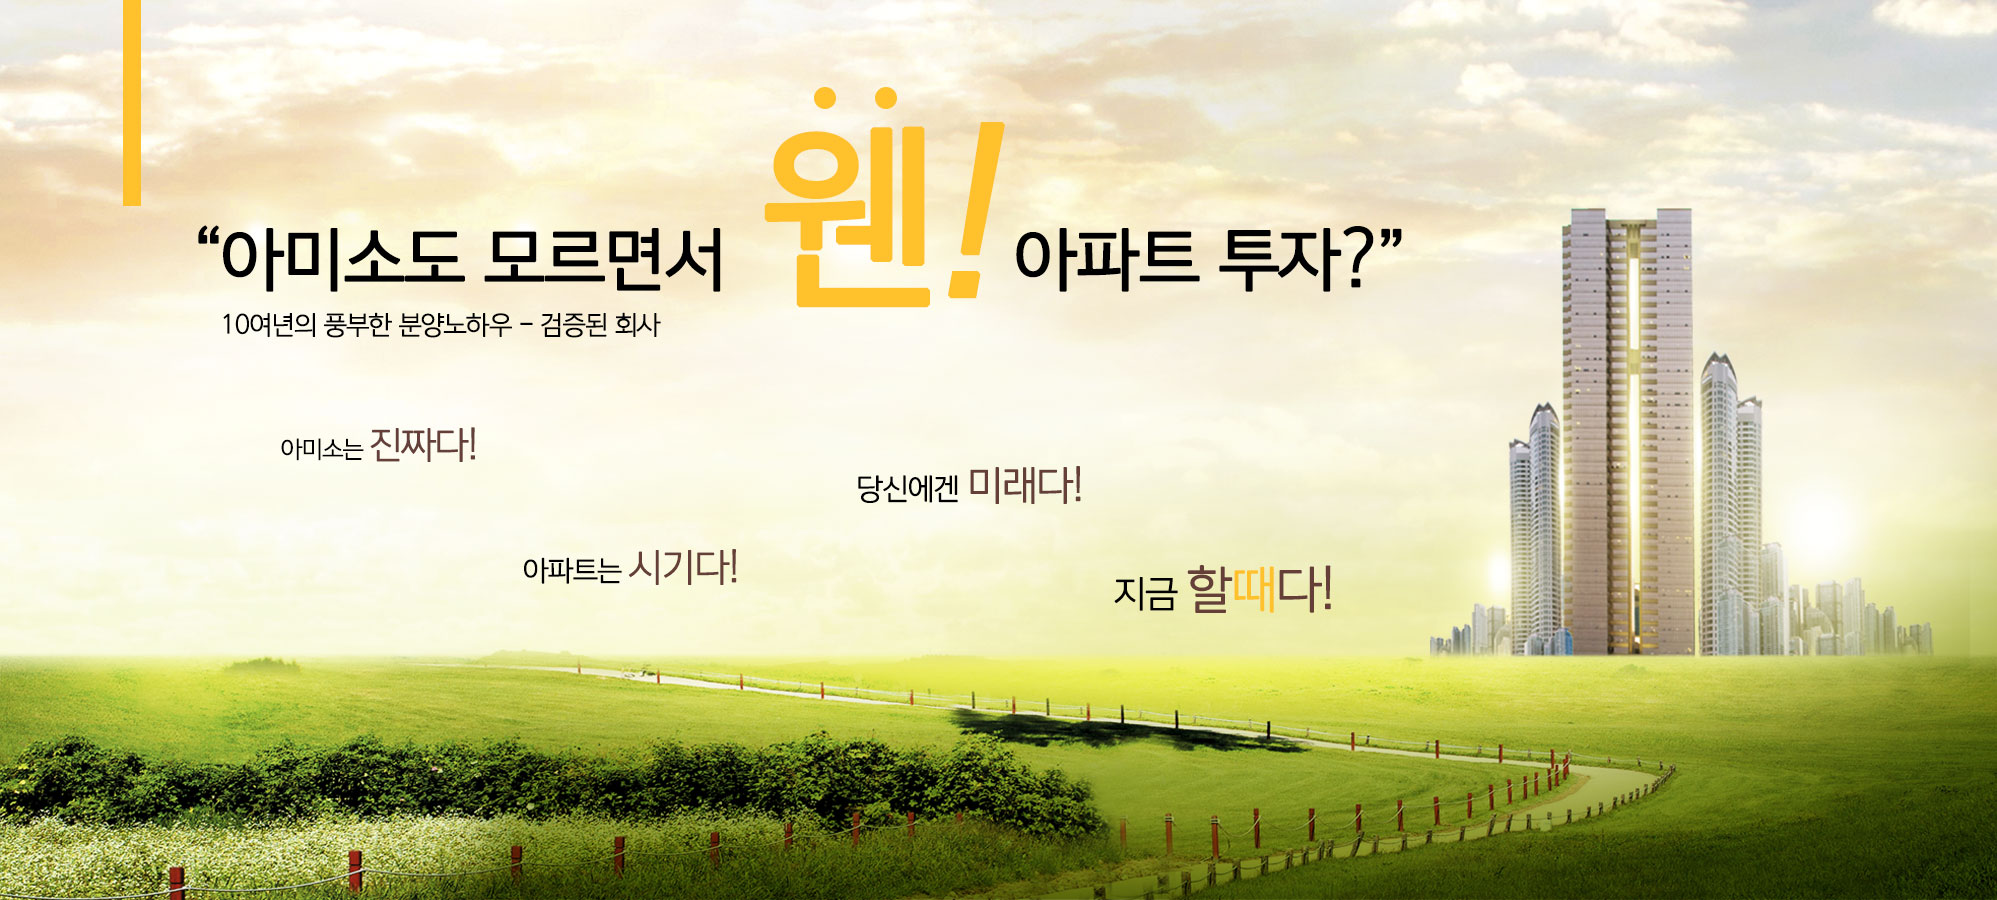
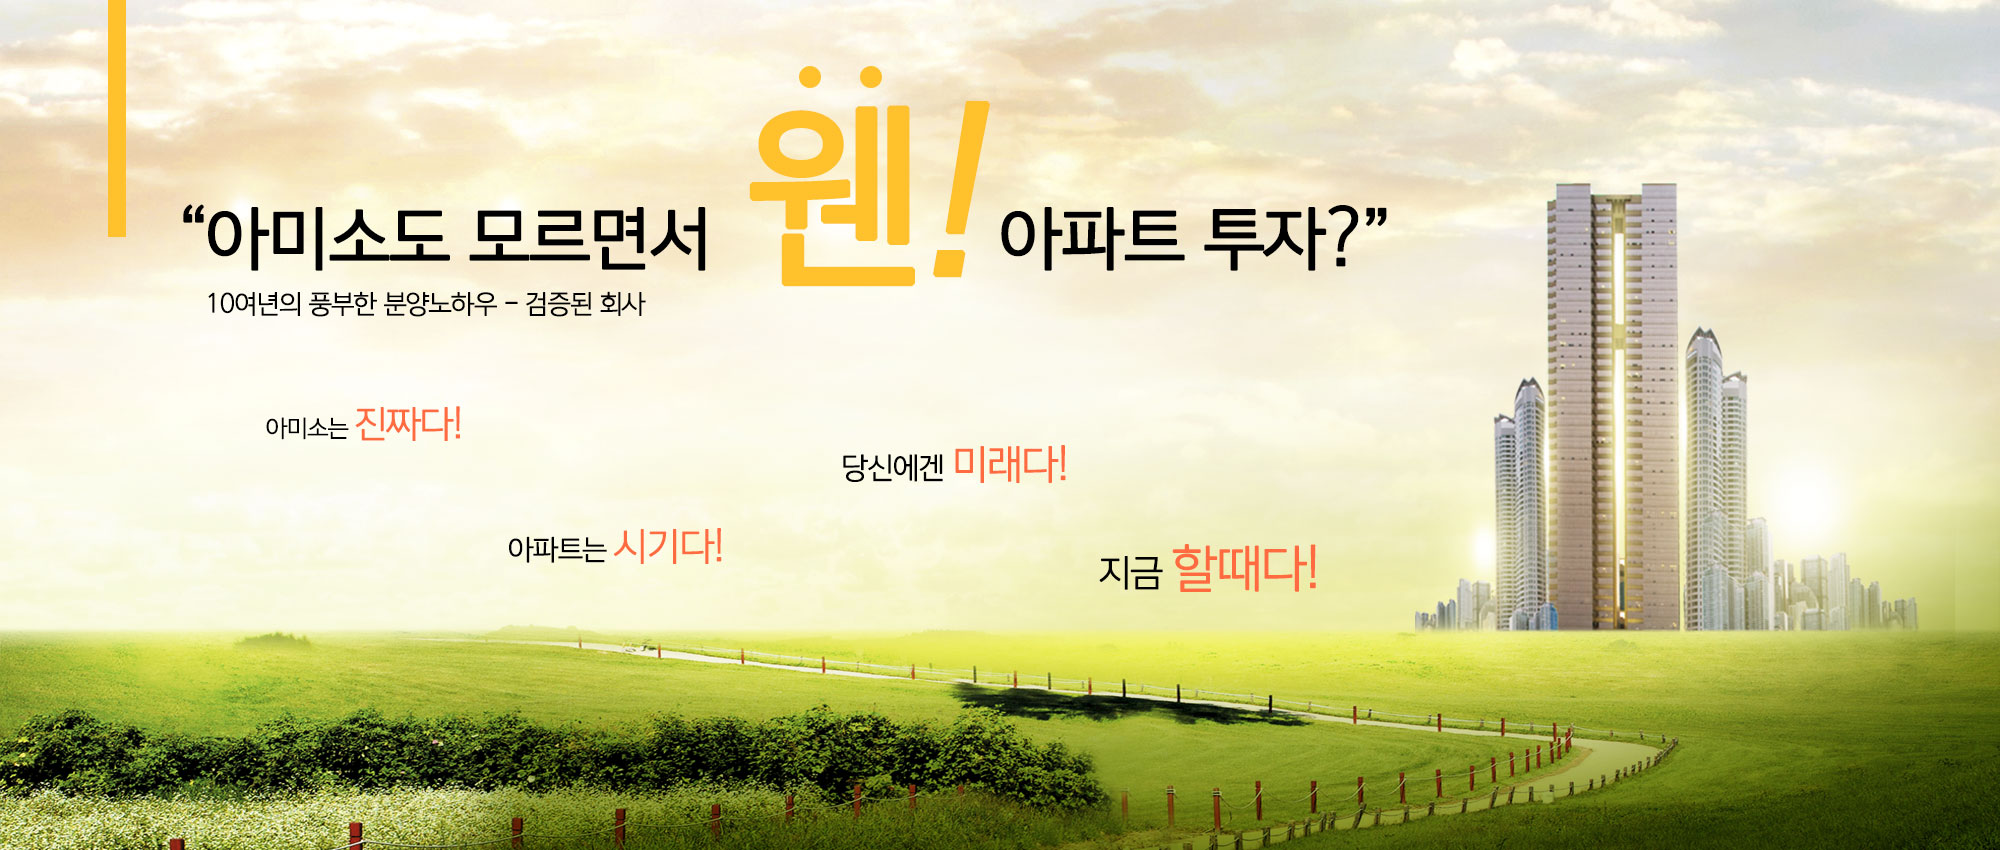
1차컨펌후 요청사항 수정

diff --git a/src/main/webapp/resources/css/common.css b/src/main/webapp/resources/css/common.css
@@ -220,7 +220,7 @@ a:active, a:active code {
 
 a:hover, a:hover code, a:focus, a:focus code {
 	text-decoration: none;
-	color: #548537; /*마우스오버시 자연스럽게*/
+	color: #ff8561; /*마우스오버시 자연스럽게*/
 	transition-duration: 300ms;
 	transition-property: color, border-color, background-color;
 	transition-timing-function: ease;

diff --git a/src/main/java/com/webaid/controller/HomeController.java b/src/main/java/com/webaid/controller/HomeController.java
@@ -1,10 +1,25 @@
 package com.webaid.controller;
 
+import java.io.UnsupportedEncodingException;
+import java.util.Properties;
+
+import javax.mail.Message;
+import javax.mail.MessagingException;
+import javax.mail.PasswordAuthentication;
+import javax.mail.Session;
+import javax.mail.Transport;
+import javax.mail.internet.InternetAddress;
+import javax.mail.internet.MimeMessage;
+import javax.mail.internet.MimeUtility;
+
 import org.slf4j.Logger;
 import org.slf4j.LoggerFactory;
 import org.springframework.stereotype.Controller;
+import org.springframework.ui.Model;
 import org.springframework.web.bind.annotation.RequestMapping;
 import org.springframework.web.bind.annotation.RequestMethod;
+
+import com.webaid.domain.MailVO;
 
 
 @Controller
@@ -18,6 +33,64 @@ public class HomeController {
 		logger.info("amiso main");
 				
 		return "main/index";
+	}
+	
+	@RequestMapping(value = "sendMail", method = RequestMethod.POST)
+	public String sendMail(MailVO vo, Model model) {
+		logger.info("sendMail GET");
+		logger.info(vo.toString());
+		SendEmail(vo);
+		return "redirect:/";
+	}
+
+	private void SendEmail(MailVO vo) {
+		logger.info("sendmail 진입");
+		String host = "smtp.naver.com";
+		String user = "bjj7425";
+		String password = "qowowls7425!";
+		int port=465;
+		
+		Properties props = new Properties();
+		props.put("mail.smtp.host", host);
+		props.put("mail.smtp.port", port);
+		props.put("mail.smtp.auth", "true");
+		props.put("mail.smtp.ssl.enable", "true");
+		props.put("mail.smtp.ssl.trust", host);
+
+		Session session = Session.getDefaultInstance(props, new javax.mail.Authenticator() {
+			protected PasswordAuthentication getPasswordAuthentication() {
+				return new PasswordAuthentication(user, password);
+			}
+		});
+
+		// Compose the message
+		try {
+			MimeMessage message = new MimeMessage(session);
+			message.setFrom(new InternetAddress(user));
+			message.addRecipient(Message.RecipientType.TO, new InternetAddress("bjj7425@naver.com"));
+
+			// Subject
+			String subject = "아미소 관심고객등록 신청입니다.";
+			try {
+				message.setSubject(MimeUtility.encodeText(subject, "UTF-8", "B"));
+			} catch (UnsupportedEncodingException e) {
+				// TODO Auto-generated catch block
+				e.printStackTrace();
+			}
+			String PwMeg = "작성자:" + vo.getName() + "<br>" + "연락처:" + vo.getCall() + "<br>" + "연락방법:" + vo.getCallType()
+					+ "<br>" + "문의내용:" + vo.getContent();
+
+			// Text/Project_JSP/img/login/login.gif
+			message.setText(PwMeg, "UTF-8");
+			message.setHeader("content-Type", "text/html");
+
+			// send the message
+			Transport.send(message);
+			System.out.println("전송성공");
+
+		} catch (MessagingException e) {
+			e.printStackTrace();
+		}
 	}
 	
 }

diff --git a/src/main/java/com/webaid/domain/MailVO.java b/src/main/java/com/webaid/domain/MailVO.java
@@ -1,0 +1,51 @@
+package com.webaid.domain;
+
+public class MailVO {
+	private String name;
+	private String call;
+	private String callType;
+	private String content;
+
+	public MailVO() {
+		super();
+		// TODO Auto-generated constructor stub
+	}
+
+	public String getName() {
+		return name;
+	}
+
+	public void setName(String name) {
+		this.name = name;
+	}
+
+	public String getCall() {
+		return call;
+	}
+
+	public void setCall(String call) {
+		this.call = call;
+	}
+
+	public String getCallType() {
+		return callType;
+	}
+
+	public void setCallType(String callType) {
+		this.callType = callType;
+	}
+
+	public String getContent() {
+		return content;
+	}
+
+	public void setContent(String content) {
+		this.content = content;
+	}
+
+	@Override
+	public String toString() {
+		return "MailVO [name=" + name + ", call=" + call + ", callType=" + callType + ", content=" + content + "]";
+	}
+
+}
